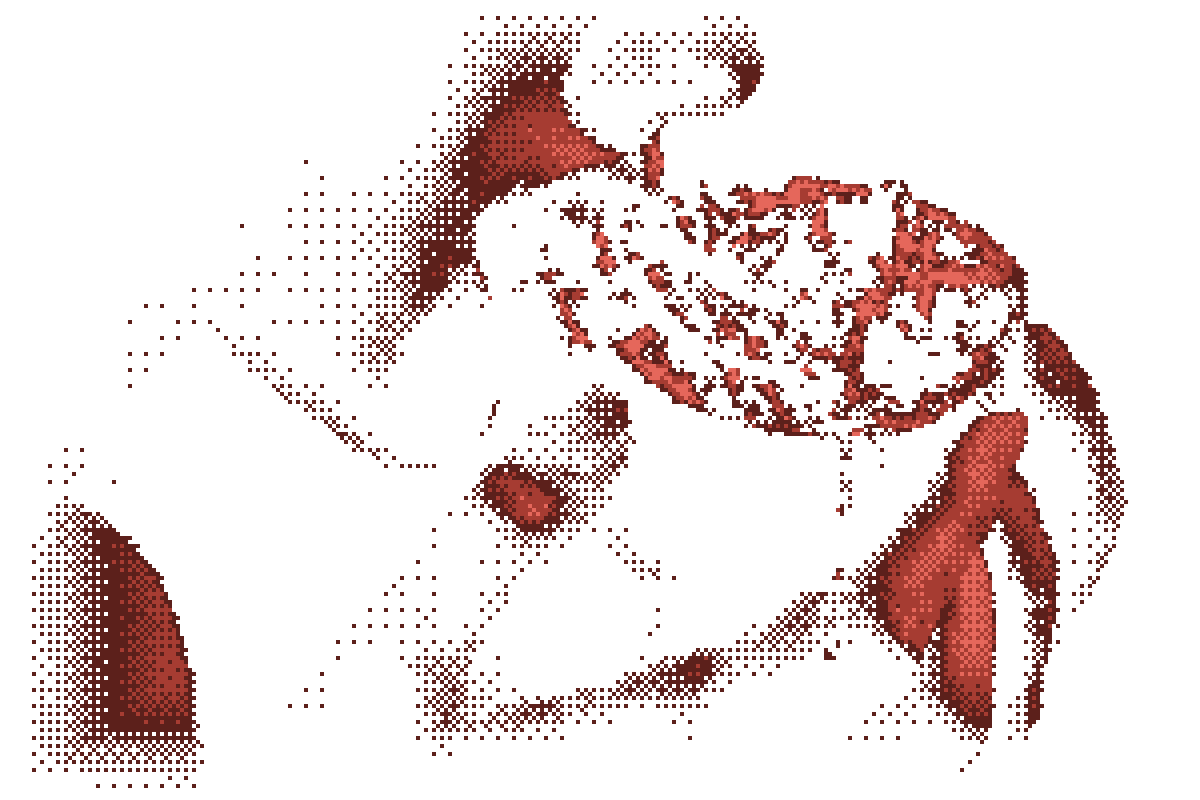
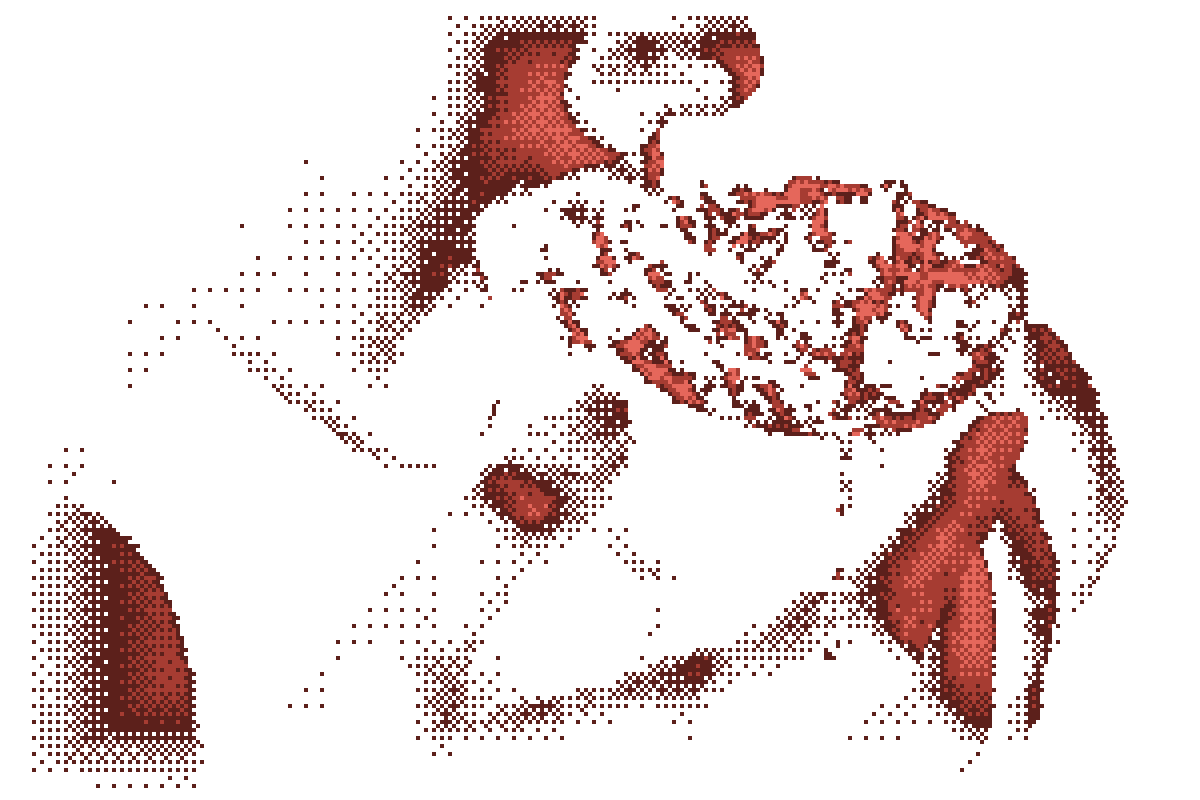
Let the landing's closing image continue out of the last figure (T-115)
The image sits right under fig. 4. Its sides and bottom dissolve into the
dither, its top fades only briefly, and it slides down from under the figure
as it appears.

Changed region(s): [[0.37, 0.0, 0.6475, 0.1875]]

diff --git a/landing/app/components/LandingPage.module.css b/landing/app/components/LandingPage.module.css
@@ -345,7 +345,7 @@
 .applyFill { fill: var(--red); }
 
 /* The last frame: no caption. */
-.close { padding-top: 48px; }
+.close { margin-top: 8px; }
 
 .bite {
   display: block;
@@ -354,8 +354,8 @@
   image-rendering: pixelated;
 }
 
-.landing[data-motion] .bite[data-reveal]:not([data-shown]) { opacity: 0; filter: blur(8px); }
-.landing[data-motion] .bite[data-reveal] { transition: opacity 1.6s var(--ease), filter 1.6s var(--ease); }
+.landing[data-motion] .bite[data-reveal]:not([data-shown]) { opacity: 0; transform: translateY(-24px); filter: blur(8px); }
+.landing[data-motion] .bite[data-reveal] { transition: opacity 1.6s var(--ease), transform 1.6s var(--ease), filter 1.6s var(--ease); }
 
 /* A small, quiet note that Pomegr runs locally. */
 .local {

diff --git a/docs/internal/design/landing.md b/docs/internal/design/landing.md
@@ -70,7 +70,7 @@ The landing is an isolated package, so it copies these values instead of importi
 - A 22px dot grid sits behind the hero and fades out from the upper right through a radial mask.
 - Under a fine pointer, each dot the cursor crosses turns Signal red and fades out over 1.1 seconds, still inside the same fade (`DotGlow`). Only crossed dots light, never a radius around the cursor.
 - A pomegranate broken in two halves sits behind the hero on the right (`pomegranate-halves.png`).
-- A person biting into a pomegranate (`pomegranate-bite.png`) sits right below the last figure, with no caption. Its edges dissolve into the dither, so the image never shows a hard crop.
+- A person biting into a pomegranate (`pomegranate-bite.png`) sits right below the last figure, with no caption. Its sides and bottom dissolve into the dither, and its top starts right under the figure, so it reads as continuing out of it.
 - Both images are generated photographs converted to a 4×4 Bayer dither in three reds (`#5c201b`, Red, Signal) on a transparent ground. Each file carries its generation prompt and conversion steps in a PNG text chunk.
 - The images render with pixelated scaling, so each dither pixel stays a visible square.
 - The pomegranate is the brand's hidden thread. Nothing on the page names or explains it.
@@ -129,5 +129,5 @@ Reading order: hero, fig. 1, the three jobs, one chapter each for sessions, task
 - After the entrance, the Now line and the next card pulse slowly.
 - On load, the two halves of the hero pomegranate fade in closed, then crack apart.
 - On a phone the hero pomegranate sits behind the title at 35% opacity.
-- The closing image sharpens from an 8px blur as it scrolls into view.
+- The closing image slides down 24px from under the figure and sharpens from an 8px blur as it scrolls into view.
 - Reduced motion turns off every entrance, pulse, the crack, and the task field animation.
